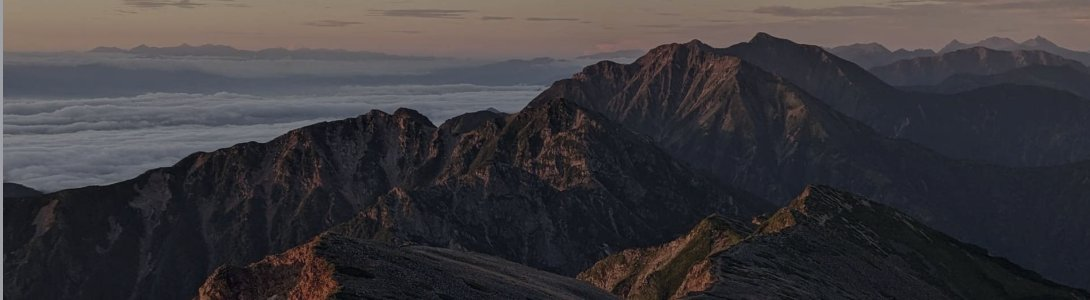
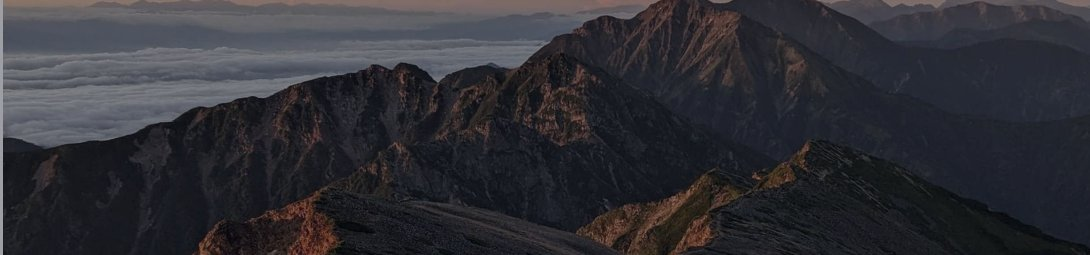
ヘッダー写真の再クロップとService Workerのキャッシュ不具合を修正
tozan01リポジトリのコミットd6bcddbを反映。

diff --git a/sw.js b/sw.js
@@ -2,7 +2,7 @@
 // オフラインで起動できるようにする。要件1（山中は圏外）の実現手段。
 //
 // アプリを更新したら CACHE_VERSION を上げること。古いキャッシュは activate 時に破棄する。
-const CACHE_VERSION = "v7";
+const CACHE_VERSION = "v9";
 const CACHE_NAME = `tozan-app-shell-${CACHE_VERSION}`;
 
 // 必須のアプリ本体一式。1つでも取得できなければ install 自体を失敗させ、
@@ -26,9 +26,17 @@ const REQUIRED_ASSETS = [
 // 変わるため、無くても install 全体を失敗させない。
 const OPTIONAL_ASSETS = ["verify.html", "cases.json"];
 
+// { cache: "reload" } でブラウザの通常HTTPキャッシュを無視し、必ずネットワークから
+// 取り直す。cache.addAll() や素の fetch() だと、画像などが過去に一度取得済みの
+// URLの場合にHTTPキャッシュから古い内容を拾ってしまい、CACHE_VERSIONを上げても
+// 中身が更新されない不具合があった（hero.jpg差し替え時に発覚）。
+async function fetchFresh(url) {
+  return fetch(url, { cache: "reload" });
+}
+
 async function cacheIfAvailable(cache, url) {
   try {
-    const res = await fetch(url);
+    const res = await fetchFresh(url);
     if (res && res.ok) await cache.put(url, res);
   } catch (err) {
     // 無くてもよい
@@ -39,7 +47,11 @@ self.addEventListener("install", (event) => {
   event.waitUntil(
     (async () => {
       const cache = await caches.open(CACHE_NAME);
-      await cache.addAll(REQUIRED_ASSETS);
+      for (const url of REQUIRED_ASSETS) {
+        const res = await fetchFresh(url);
+        if (!res || !res.ok) throw new Error(`required asset failed: ${url}`);
+        await cache.put(url, res);
+      }
 
       for (const url of OPTIONAL_ASSETS) await cacheIfAvailable(cache, url);
 

diff --git a/app.css b/app.css
@@ -47,7 +47,7 @@ h1, h2, h3, legend, summary {
    min-height で下限を確保する。 */
 .hero {
   position: relative;
-  aspect-ratio: 1090 / 300;
+  aspect-ratio: 1090 / 255;
   min-height: 215px;
   margin: -16px -16px 20px;
   overflow: hidden;
